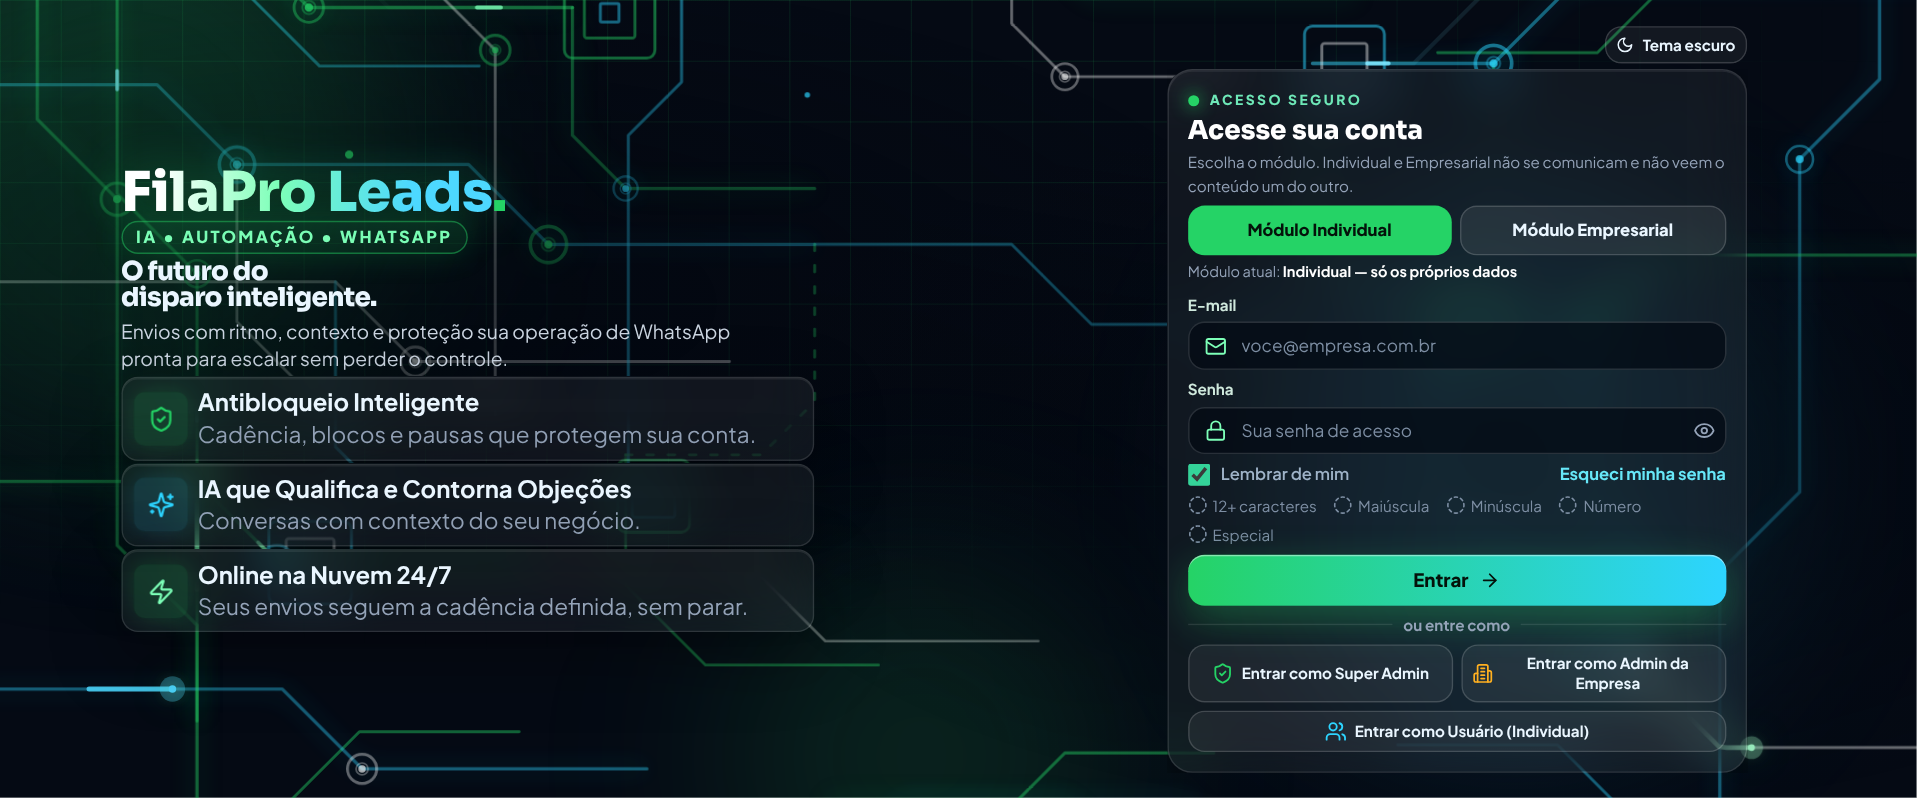
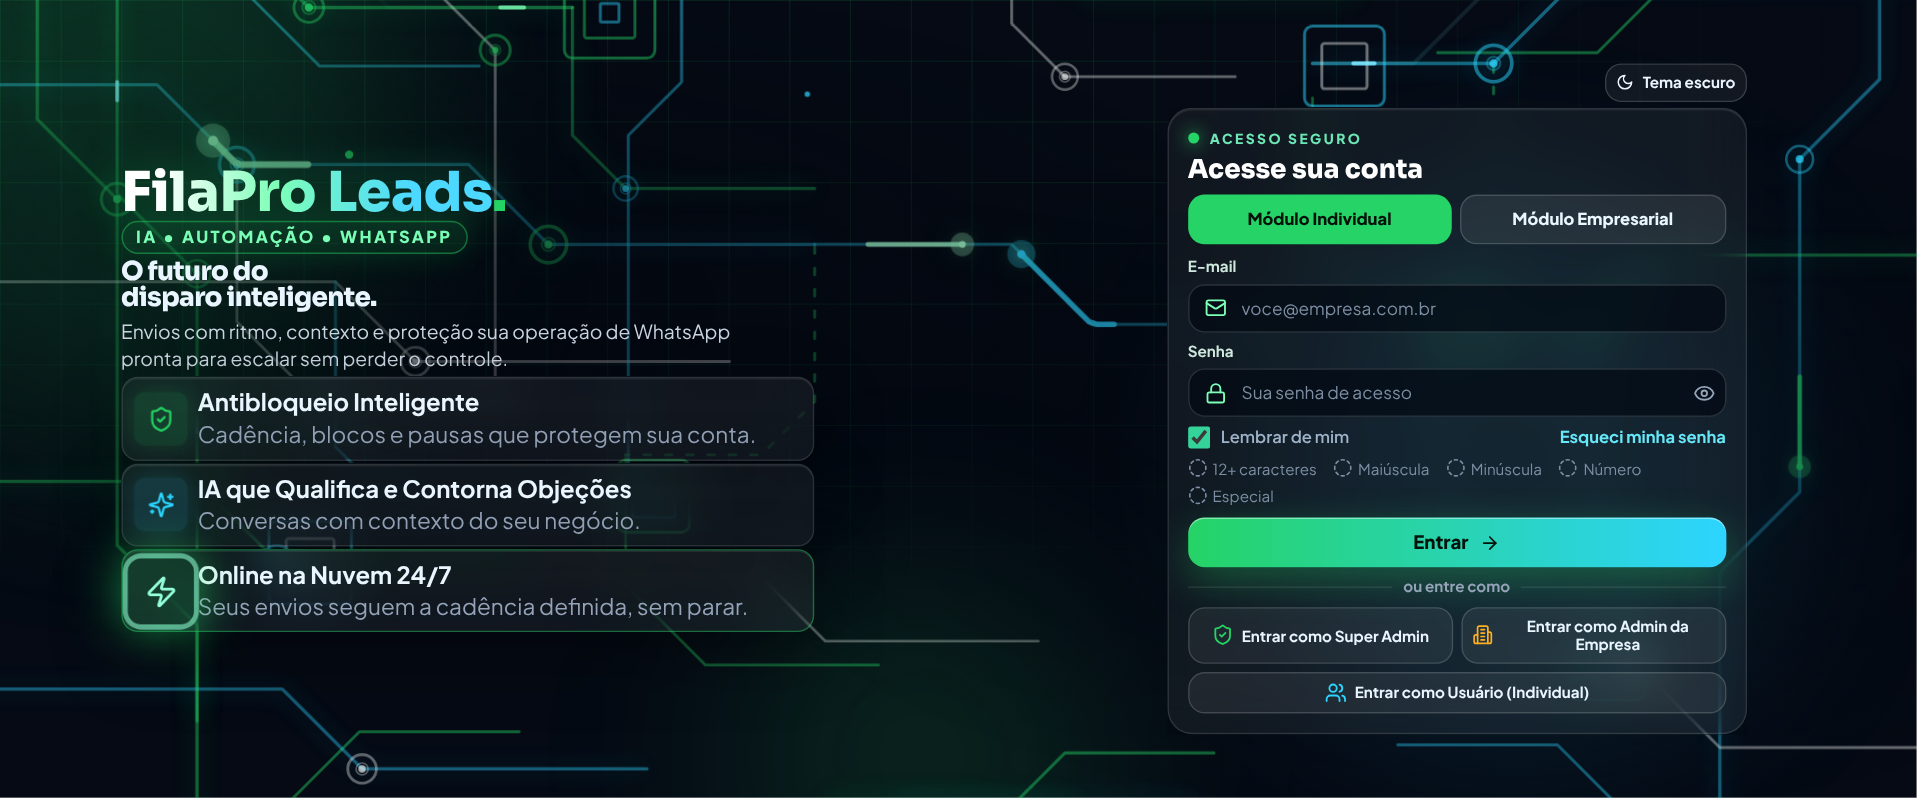
Login: remove textos 'Escolha o módulo...' e 'Módulo atual...' do card
Claude-Session: https://claude.ai/code/session_01LyZkVnz4zPybwVeko9NDYv

diff --git a/apps/web/components/login/LoginScreen.tsx b/apps/web/components/login/LoginScreen.tsx
@@ -263,9 +263,7 @@ export default function LoginScreen() {
                   <span className="text-[10px] font-extrabold tracking-[0.18em] text-emerald-300">ACESSO SEGURO</span>
                 </div>
                 <h2 className="font-display text-[19px] font-extrabold leading-tight text-white mt-1">Acesse sua conta</h2>
-                <p className="text-[11px] mt-0.5 text-slate-400">
-                  Escolha o módulo. Individual e Empresarial não se comunicam e não veem o conteúdo um do outro.
-                </p>
+                {/* Texto "Escolha o módulo..." removido por ordem do dono do projeto (decisoes.md #7). */}
 
                 <div className="flex gap-1.5 mt-1.5" role="tablist" aria-label="Escolha o módulo">
                   <button
@@ -293,12 +291,7 @@ export default function LoginScreen() {
                     Módulo Empresarial
                   </button>
                 </div>
-                <p className="text-[10.5px] mt-1 text-slate-400">
-                  Módulo atual:{" "}
-                  <b className="text-white">
-                    {modulo === "individual" ? "Individual — só os próprios dados" : "Empresarial — só a própria empresa"}
-                  </b>
-                </p>
+                {/* Linha "Módulo atual: ..." removida por ordem do dono do projeto (decisoes.md #7). */}
 
                 <form onSubmit={onSubmit} className="space-y-1.5 mt-2">
                   <div>

diff --git a/docs/login-referencia.md b/docs/login-referencia.md
@@ -61,9 +61,9 @@ Tokens do app (resto das telas): ver seção 9.
 2. Card `.login-glass .login-card`, `rounded-[18px]`, padding `p-3 sm:p-3.5`:
    - Bolinha verde + `ACESSO SEGURO` (10px, tracking .18em, emerald-300)
    - `Acesse sua conta` (Sora 19px extrabold, branco)
-   - Texto: `Escolha o módulo. Individual e Empresarial não se comunicam e não veem o conteúdo um do outro.`
+   - ~~Texto "Escolha o módulo..."~~ — **removido** (decisoes.md #7)
    - **Abas de módulo**: `Módulo Individual` (ativo: fundo `#25D366`) · `Módulo Empresarial` (ativo: fundo `#2dd4ff`)
-   - `Módulo atual: Individual — só os próprios dados` / `Empresarial — só a própria empresa`
+   - ~~Linha "Módulo atual: ..."~~ — **removida**; não usar este espaço para exibir informação (decisoes.md #7)
    - Campo **E-mail** (ícone `Mail`, `#7dffb8`) — placeholder `voce@empresa.com.br`
    - Campo **Senha** (ícone `Lock`, olho mostrar/ocultar) — placeholder `Sua senha de acesso`
    - `☐ Lembrar de mim` · `Esqueci minha senha` (cyan-300)

diff --git a/docs/decisoes.md b/docs/decisoes.md
@@ -38,6 +38,7 @@ Cada sessão de WhatsApp conectada usa memória contínua; com muitos clientes, 
 |---|---|
 | 5 | **Cadastro, expiração e papéis seguem o prompt FilaPro:** sem cadastro público (Super Admin cria contas), expiração a cada 31 dias ou prazo do admin, papéis Super Admin / Admin da Empresa (não envia) / Usuário. |
 | 6 | **Janela de horário de envio mantida** (padrão 8h–20h, ajustável pelo Admin da Empresa ou pelo usuário Individual). |
+| 7 | **Login — card:** removidos o texto "Escolha o módulo. Individual e Empresarial não se comunicam..." e a linha "Módulo atual: ...". Esse espaço não deve ser usado para exibir informação. |
 
 ## Fase 2 — IMPORTANTE, implementar depois do MVP
 - **Teste grátis:** 7 dias ou 20 disparos, o que acontecer primeiro (regras completas em `especificacao-api-whatsapp.md`).
